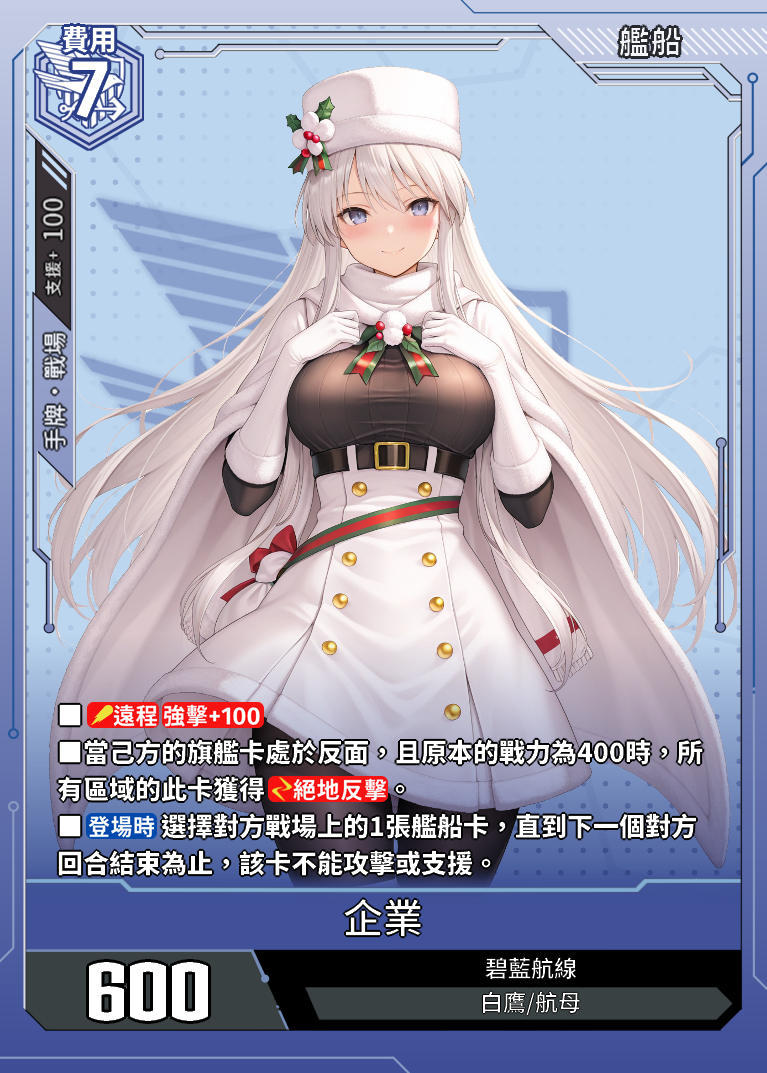
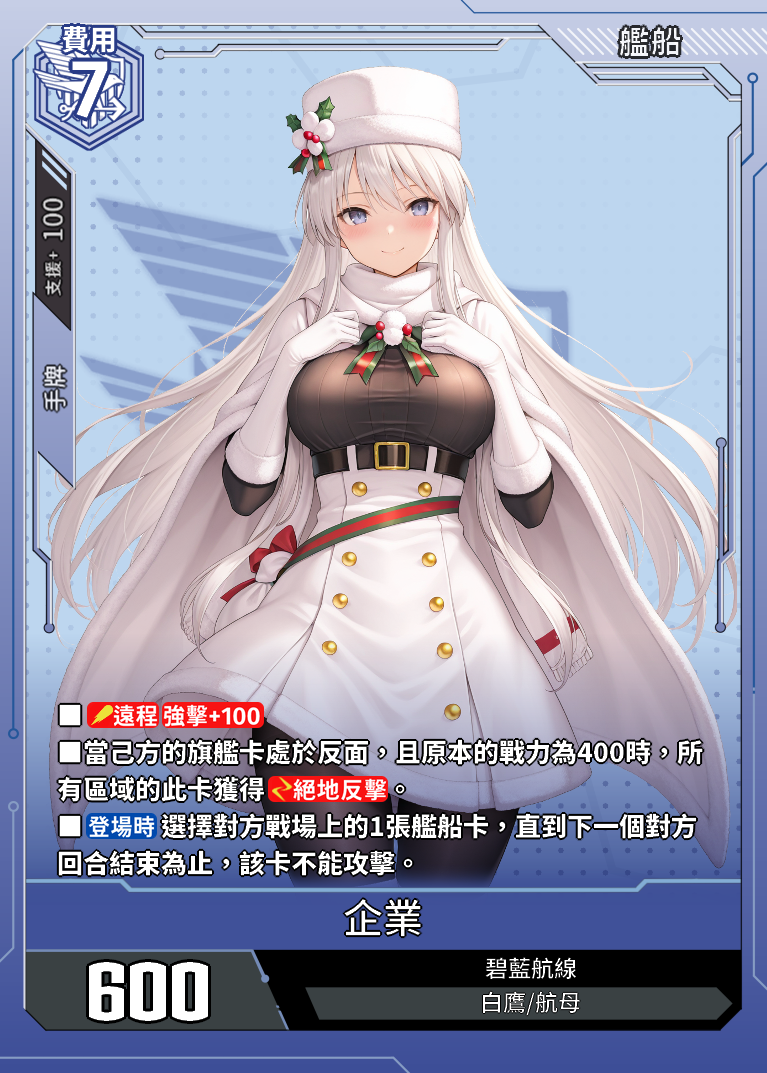
修改CE02企業技能

Changed region(s): [[0.5098, 0.7689, 0.6297, 0.8304], [0.03, 0.3075, 0.09, 0.4306]]

diff --git a/data.js b/data.js
@@ -24371,10 +24371,10 @@ const cards = [
             "艦船類型": "航母",
             "罕　貴": "-",
             "勢　力": "碧藍航線",
-            "支援範圍": "手牌·戰場",
+            "支援範圍": "手牌",
             "支援值": "100"
         },
-        "card_effect": "■【遠程】【強擊+100】■當己方的旗艦卡處於反面，且原本的戰力為400時，所有區域的此卡獲得【絕地反擊】。■【登場時】選擇對方戰場上的1張艦船卡，直到下一個對方回合結束為止，該卡不能攻擊或支援。",
+        "card_effect": "■【遠程】【強擊+100】■當己方的旗艦卡處於反面，且原本的戰力為400時，所有區域的此卡獲得【絕地反擊】。■【登場時】選擇對方戰場上的1張艦船卡，直到下一個對方回合結束為止，該卡不能攻擊。",
         "acquisition_method": "CE02-早期測試"
     },
 	{
